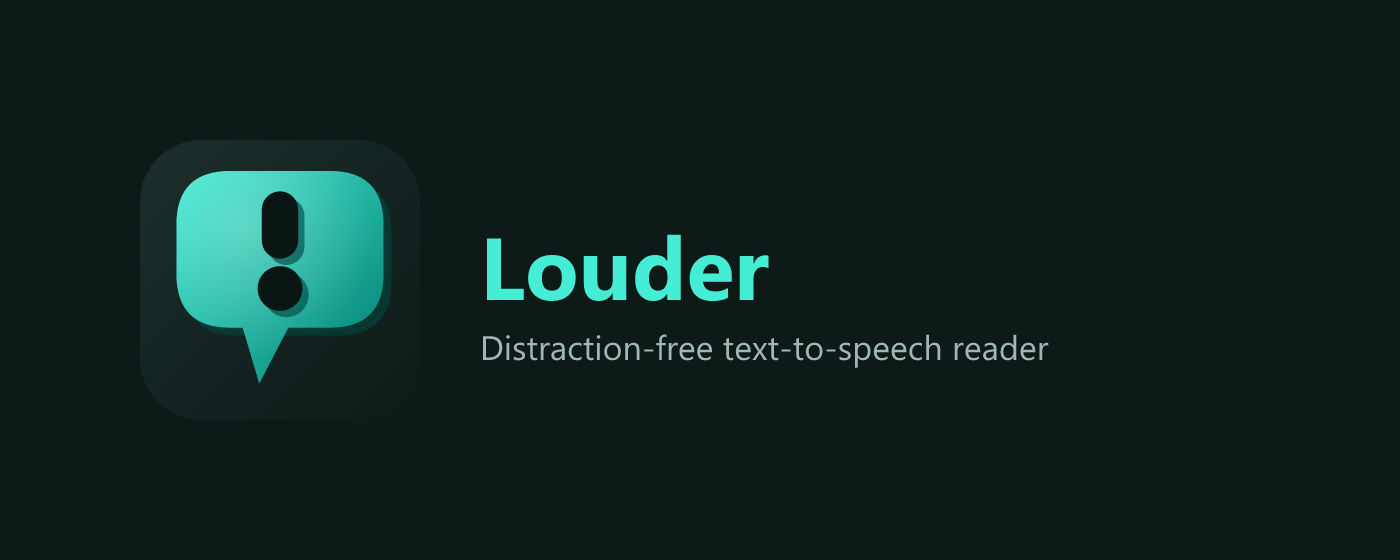
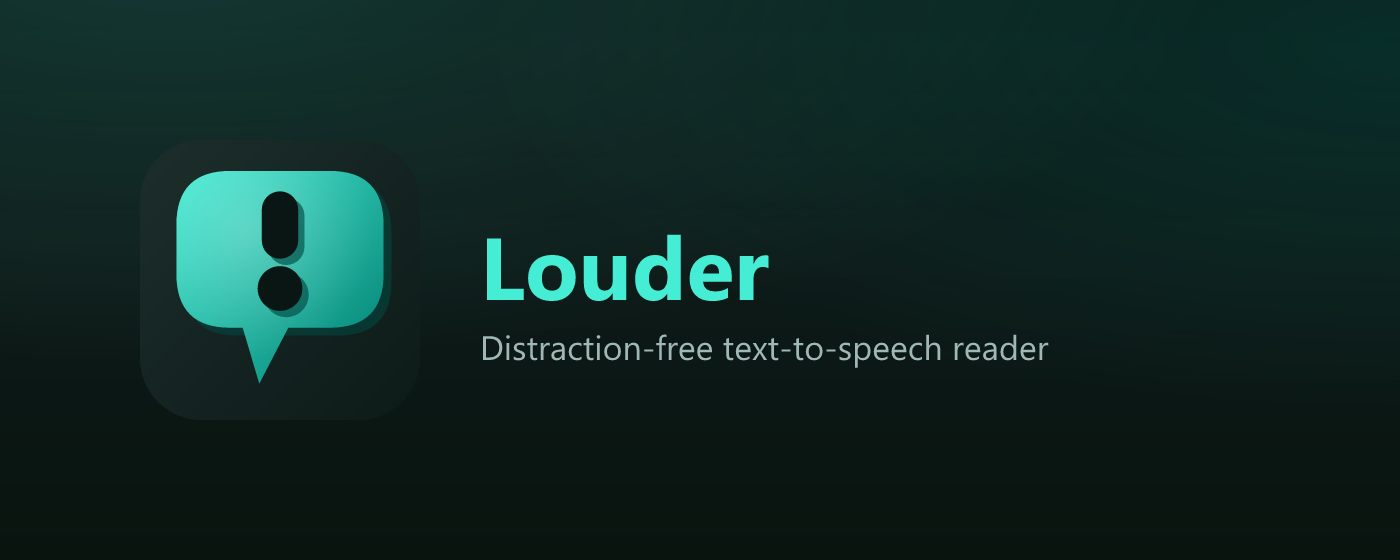
Bring store promo tiles in line with the landing page's visual language
The landing page evolved a richer look (layered radial teal glows over
a dark gradient) while the store promo tiles were still on the original
flat background. Regenerated both tiles with the same glow treatment
so they read as the same brand system.

Changed region(s): [[0.0, 0.0, 0.2457, 0.0911]]

diff --git a/scripts/generate-store-assets.js b/scripts/generate-store-assets.js
@@ -37,10 +37,30 @@ const MARK = `
   <circle cx="64" cy="67.9" r="10.24" fill="#0a1614"></circle>
 </symbol>`;
 
+// Same layered radial-glow treatment as the landing page background
+// (landing/index.html's body { background: radial-gradient(...) }),
+// so the store promo tiles read as part of the same visual system.
+const BG_GRADIENTS = `
+<radialGradient id="glowTL" cx="12%" cy="-10%" r="75%">
+  <stop offset="0%" stop-color="#46edd5" stop-opacity="0.16"></stop>
+  <stop offset="100%" stop-color="#46edd5" stop-opacity="0"></stop>
+</radialGradient>
+<radialGradient id="glowTR" cx="100%" cy="8%" r="65%">
+  <stop offset="0%" stop-color="#007d6f" stop-opacity="0.22"></stop>
+  <stop offset="100%" stop-color="#007d6f" stop-opacity="0"></stop>
+</radialGradient>
+<linearGradient id="bgBase" x1="0" y1="0" x2="0" y2="1">
+  <stop offset="0%" stop-color="#0a1614"></stop>
+  <stop offset="45%" stop-color="#0d1a18"></stop>
+  <stop offset="100%" stop-color="#09140f"></stop>
+</linearGradient>`;
+
 function tile({ width, height, iconSize, iconX, iconY, wordmarkSize, taglineSize, textX, wordmarkY, taglineY, tagline }) {
   return `<svg width="${width}" height="${height}" viewBox="0 0 ${width} ${height}" xmlns="http://www.w3.org/2000/svg">
-  <defs>${MARK}</defs>
-  <rect width="${width}" height="${height}" fill="#0d1a18"></rect>
+  <defs>${MARK}${BG_GRADIENTS}</defs>
+  <rect width="${width}" height="${height}" fill="url(#bgBase)"></rect>
+  <rect width="${width}" height="${height}" fill="url(#glowTL)"></rect>
+  <rect width="${width}" height="${height}" fill="url(#glowTR)"></rect>
   <use href="#mark" x="${iconX}" y="${iconY}" width="${iconSize}" height="${iconSize}"></use>
   <text x="${textX}" y="${wordmarkY}" font-family="Segoe UI, Arial, sans-serif" font-size="${wordmarkSize}" font-weight="700" fill="#46edd5">Louder</text>
   <text x="${textX}" y="${taglineY}" font-family="Segoe UI, Arial, sans-serif" font-size="${taglineSize}" font-weight="400" fill="#9fb8b3">${tagline}</text>
